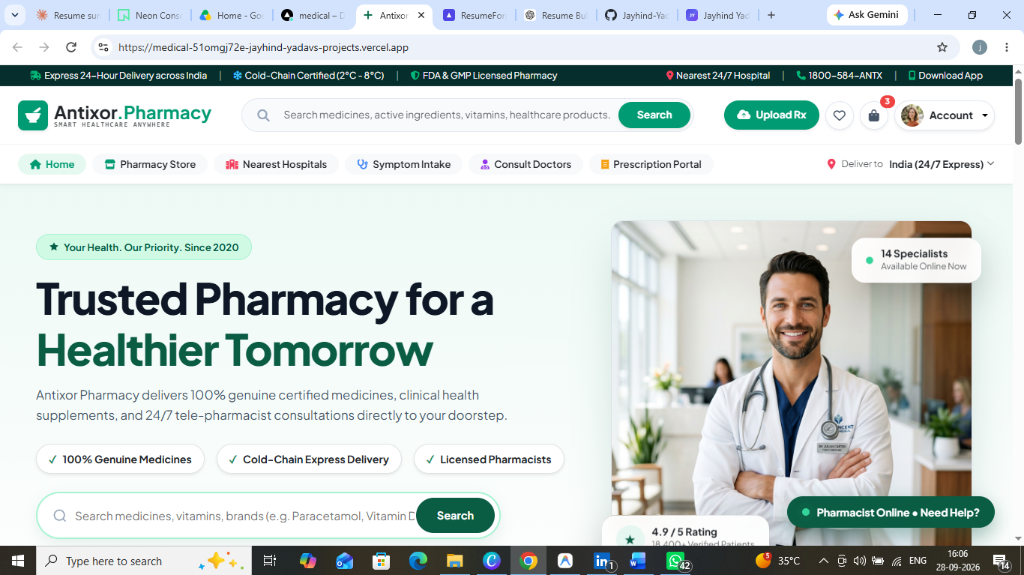
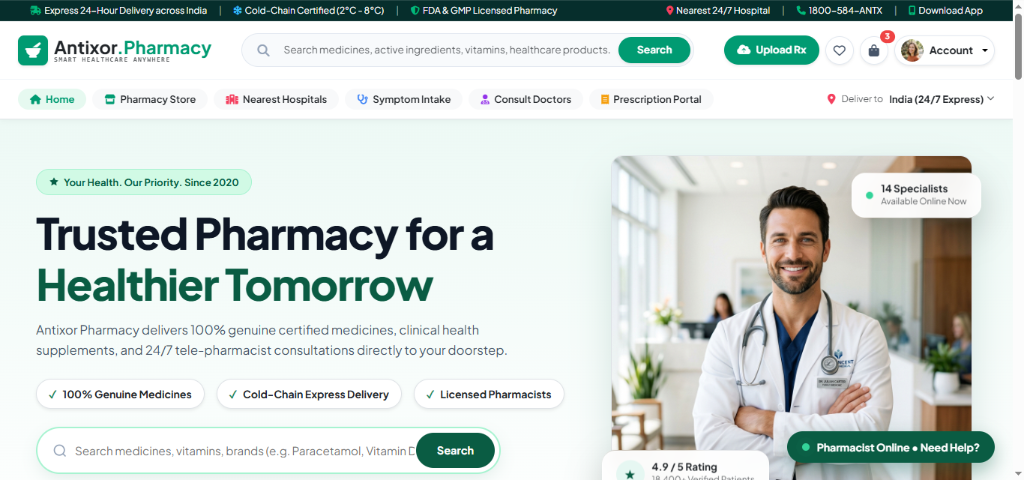
fix(projects): crop all 15 project screenshots to remove browser chrome, tabs, and taskbars for clean product previews

diff --git a/src/components/common/ProjectCard.jsx b/src/components/common/ProjectCard.jsx
@@ -62,7 +62,7 @@ export default function ProjectCard({ project }) {
                   className="w-full h-full object-cover object-top hover:scale-[1.02] transition-transform duration-500"
                   loading="eager"
                 />
-                <div className="absolute inset-0 bg-gradient-to-t from-slate-950/60 via-transparent to-slate-950/20 pointer-events-none" />
+                <div className="absolute inset-0 bg-gradient-to-t from-slate-950/40 via-transparent to-transparent pointer-events-none" />
               </div>
             ) : (
               <ProjectVisual
